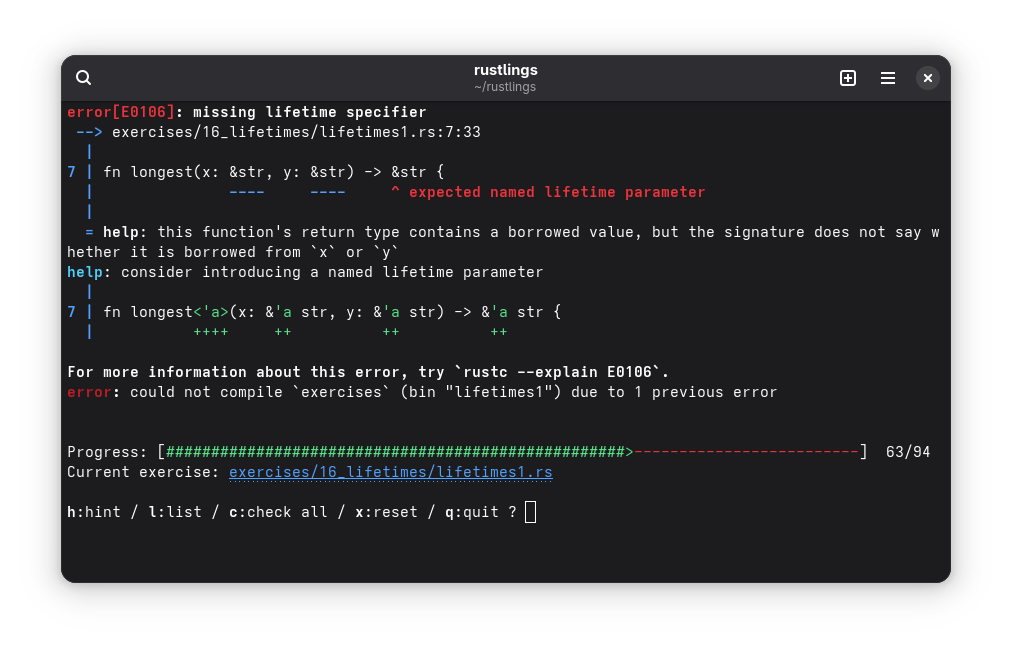
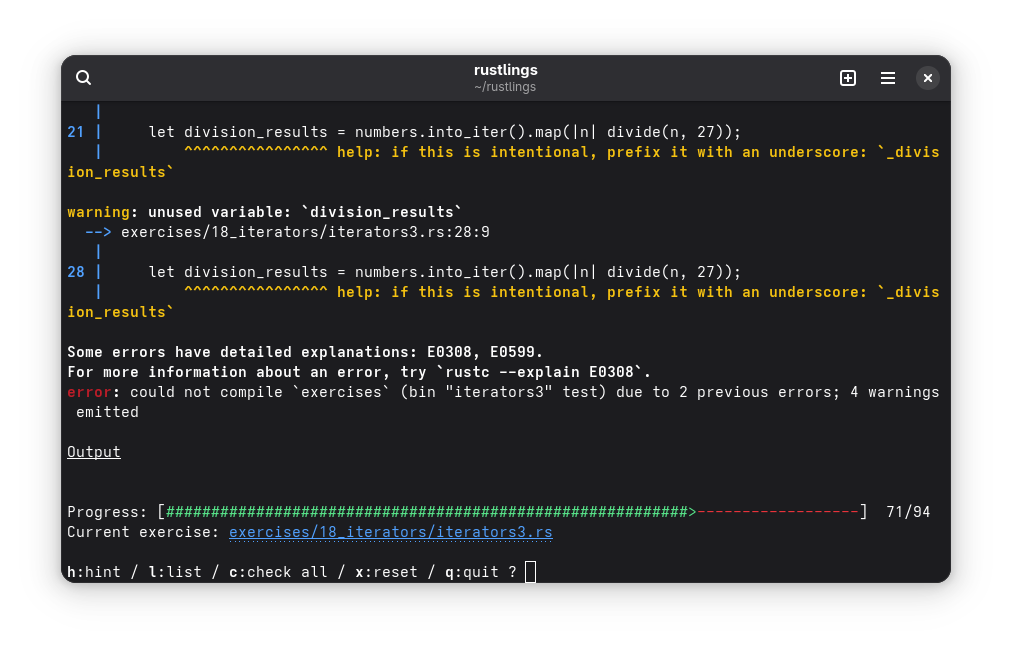
a few more exercises

diff --git a/solutions/18_iterators/iterators2.rs b/solutions/18_iterators/iterators2.rs
@@ -1,4 +1,56 @@
+// In this exercise, you'll learn some of the unique advantages that iterators
+// can offer.
+
+// "hello" -> "Hello"
+fn capitalize_first(input: &str) -> String {
+    let mut chars = input.chars();
+    match chars.next() {
+        None => String::new(),
+        Some(first) => first.to_uppercase().to_string() + chars.as_str(),
+    }
+}
+
+// Apply the `capitalize_first` function to a slice of string slices.
+// Return a vector of strings.
+// ["hello", "world"] -> ["Hello", "World"]
+fn capitalize_words_vector(words: &[&str]) -> Vec<String> {
+    words.iter().map(|word| capitalize_first(word)).collect()
+}
+
+// Apply the `capitalize_first` function again to a slice of string
+// slices. Return a single string.
+// ["hello", " ", "world"] -> "Hello World"
+fn capitalize_words_string(words: &[&str]) -> String {
+    words.iter().map(|word| capitalize_first(word)).collect()
+}
+
 fn main() {
-    // DON'T EDIT THIS SOLUTION FILE!
-    // It will be automatically filled after you finish the exercise.
+    // You can optionally experiment here.
+}
+
+#[cfg(test)]
+mod tests {
+    use super::*;
+
+    #[test]
+    fn test_success() {
+        assert_eq!(capitalize_first("hello"), "Hello");
+    }
+
+    #[test]
+    fn test_empty() {
+        assert_eq!(capitalize_first(""), "");
+    }
+
+    #[test]
+    fn test_iterate_string_vec() {
+        let words = vec!["hello", "world"];
+        assert_eq!(capitalize_words_vector(&words), ["Hello", "World"]);
+    }
+
+    #[test]
+    fn test_iterate_into_string() {
+        let words = vec!["hello", " ", "world"];
+        assert_eq!(capitalize_words_string(&words), "Hello World");
+    }
 }

diff --git a/exercises/18_iterators/iterators2.rs b/exercises/18_iterators/iterators2.rs
@@ -4,17 +4,24 @@
 // TODO: Complete the `capitalize_first` function.
 // "hello" -> "Hello"
 fn capitalize_first(input: &str) -> String {
-    let mut chars = input.chars();
-    match chars.next() {
-        None => String::new(),
-        Some(first) => todo!(),
+    let chars = input.chars();
+    let mut is_first = true;
+    let mut s: String = String::new();
+    for ch in chars {
+    	if is_first {
+        	s.push(ch.to_uppercase().next().unwrap());
+        	is_first=false;
+        } else {
+    	    	s.push(ch)
+    	}
     }
+    s
 }
 
 // TODO: Apply the `capitalize_first` function to a slice of string slices.
 // Return a vector of strings.
 // ["hello", "world"] -> ["Hello", "World"]
-fn capitalize_words_vector(words: &[&str]) -> Vec<String> {
+/*fn capitalize_words_vector(words: &[&str]) -> Vec<String> {
     // ???
 }
 
@@ -23,7 +30,7 @@ fn capitalize_words_vector(words: &[&str]) -> Vec<String> {
 // ["hello", " ", "world"] -> "Hello World"
 fn capitalize_words_string(words: &[&str]) -> String {
     // ???
-}
+}*/
 
 fn main() {
     // You can optionally experiment here.
@@ -43,7 +50,7 @@ mod tests {
         assert_eq!(capitalize_first(""), "");
     }
 
-    #[test]
+    /*#[test]
     fn test_iterate_string_vec() {
         let words = vec!["hello", "world"];
         assert_eq!(capitalize_words_vector(&words), ["Hello", "World"]);
@@ -53,5 +60,5 @@ mod tests {
     fn test_iterate_into_string() {
         let words = vec!["hello", " ", "world"];
         assert_eq!(capitalize_words_string(&words), "Hello World");
-    }
+    }*/
 }

diff --git a/exercises/18_iterators/iterators1.rs b/exercises/18_iterators/iterators1.rs
@@ -13,13 +13,17 @@ mod tests {
         let my_fav_fruits = ["banana", "custard apple", "avocado", "peach", "raspberry"];
 
         // TODO: Create an iterator over the array.
-        let mut fav_fruits_iterator = todo!();
+        let mut fav_fruits: Vec<String> = Vec::new();
+        for i in my_fav_fruits {
+        	fav_fruits.push(i.to_string())
+        }
+        let mut fav_fruits_iterator = fav_fruits.into_iter();
 
-        assert_eq!(fav_fruits_iterator.next(), Some(&"banana"));
-        assert_eq!(fav_fruits_iterator.next(), todo!()); // TODO: Replace `todo!()`
-        assert_eq!(fav_fruits_iterator.next(), Some(&"avocado"));
-        assert_eq!(fav_fruits_iterator.next(), todo!()); // TODO: Replace `todo!()`
-        assert_eq!(fav_fruits_iterator.next(), Some(&"raspberry"));
-        assert_eq!(fav_fruits_iterator.next(), todo!()); // TODO: Replace `todo!()`
+        assert_eq!(fav_fruits_iterator.next(), Some("banana".to_string()));
+        assert_eq!(fav_fruits_iterator.next(), Some("custard apple".to_string())); // TODO: Replace `todo!()`
+        assert_eq!(fav_fruits_iterator.next(), Some("avocado".to_string()));
+        assert_eq!(fav_fruits_iterator.next(), Some("peach".to_string())); // TODO: Replace `todo!()`
+        assert_eq!(fav_fruits_iterator.next(), Some("raspberry".to_string()));
+        assert_eq!(fav_fruits_iterator.next(), None); // TODO: Replace `todo!()`
     }
 }

diff --git a/solutions/17_tests/tests3.rs b/solutions/17_tests/tests3.rs
@@ -1,4 +1,45 @@
+struct Rectangle {
+    width: i32,
+    height: i32,
+}
+
+impl Rectangle {
+    // Don't change this function.
+    fn new(width: i32, height: i32) -> Self {
+        if width <= 0 || height <= 0 {
+            // Returning a `Result` would be better here. But we want to learn
+            // how to test functions that can panic.
+            panic!("Rectangle width and height must be positive");
+        }
+
+        Rectangle { width, height }
+    }
+}
+
 fn main() {
-    // DON'T EDIT THIS SOLUTION FILE!
-    // It will be automatically filled after you finish the exercise.
+    // You can optionally experiment here.
+}
+
+#[cfg(test)]
+mod tests {
+    use super::*;
+
+    #[test]
+    fn correct_width_and_height() {
+        let rect = Rectangle::new(10, 20);
+        assert_eq!(rect.width, 10); // Check width
+        assert_eq!(rect.height, 20); // Check height
+    }
+
+    #[test]
+    #[should_panic] // Added this attribute to check that the test panics.
+    fn negative_width() {
+        let _rect = Rectangle::new(-10, 10);
+    }
+
+    #[test]
+    #[should_panic] // Added this attribute to check that the test panics.
+    fn negative_height() {
+        let _rect = Rectangle::new(10, -10);
+    }
 }

diff --git a/solutions/16_lifetimes/lifetimes2.rs b/solutions/16_lifetimes/lifetimes2.rs
@@ -1,4 +1,29 @@
+fn longest<'a>(x: &'a str, y: &'a str) -> &'a str {
+    if x.len() > y.len() { x } else { y }
+}
+
 fn main() {
-    // DON'T EDIT THIS SOLUTION FILE!
-    // It will be automatically filled after you finish the exercise.
+    let string1 = String::from("long string is long");
+    // Solution1: You can move `strings2` out of the inner block so that it is
+    // not dropped before the print statement.
+    let string2 = String::from("xyz");
+    let result;
+    {
+        result = longest(&string1, &string2);
+    }
+    println!("The longest string is '{result}'");
+    // `string2` dropped at the end of the function.
+
+    // =========================================================================
+
+    let string1 = String::from("long string is long");
+    let result;
+    {
+        let string2 = String::from("xyz");
+        result = longest(&string1, &string2);
+        // Solution2: You can move the print statement into the inner block so
+        // that it is executed before `string2` is dropped.
+        println!("The longest string is '{result}'");
+        // `string2` dropped here (end of the inner scope).
+    }
 }

diff --git a/solutions/18_iterators/iterators1.rs b/solutions/18_iterators/iterators1.rs
@@ -1,4 +1,26 @@
+// When performing operations on elements within a collection, iterators are
+// essential. This module helps you get familiar with the structure of using an
+// iterator and how to go through elements within an iterable collection.
+
 fn main() {
-    // DON'T EDIT THIS SOLUTION FILE!
-    // It will be automatically filled after you finish the exercise.
+    // You can optionally experiment here.
+}
+
+#[cfg(test)]
+mod tests {
+    #[test]
+    fn iterators() {
+        let my_fav_fruits = ["banana", "custard apple", "avocado", "peach", "raspberry"];
+
+        // Create an iterator over the array.
+        let mut fav_fruits_iterator = my_fav_fruits.iter();
+
+        assert_eq!(fav_fruits_iterator.next(), Some(&"banana"));
+        assert_eq!(fav_fruits_iterator.next(), Some(&"custard apple"));
+        assert_eq!(fav_fruits_iterator.next(), Some(&"avocado"));
+        assert_eq!(fav_fruits_iterator.next(), Some(&"peach"));
+        assert_eq!(fav_fruits_iterator.next(), Some(&"raspberry"));
+        assert_eq!(fav_fruits_iterator.next(), None);
+        //                                     ^^^^ reached the end
+    }
 }

diff --git a/exercises/17_tests/tests3.rs b/exercises/17_tests/tests3.rs
@@ -29,13 +29,14 @@ mod tests {
         // TODO: This test should check if the rectangle has the size that we
         // pass to its constructor.
         let rect = Rectangle::new(10, 20);
-        assert_eq!(todo!(), 10); // Check width
-        assert_eq!(todo!(), 20); // Check height
+        assert_eq!(rect.width, 10); // Check width
+        assert_eq!(rect.height, 20); // Check height
     }
 
     // TODO: This test should check if the program panics when we try to create
     // a rectangle with negative width.
     #[test]
+    #[should_panic]
     fn negative_width() {
         let _rect = Rectangle::new(-10, 10);
     }
@@ -43,6 +44,7 @@ mod tests {
     // TODO: This test should check if the program panics when we try to create
     // a rectangle with negative height.
     #[test]
+    #[should_panic]
     fn negative_height() {
         let _rect = Rectangle::new(10, -10);
     }

diff --git a/solutions/16_lifetimes/lifetimes1.rs b/solutions/16_lifetimes/lifetimes1.rs
@@ -1,4 +1,24 @@
+// The Rust compiler needs to know how to check whether supplied references are
+// valid, so that it can let the programmer know if a reference is at risk of
+// going out of scope before it is used. Remember, references are borrows and do
+// not own their own data. What if their owner goes out of scope?
+
+fn longest<'a>(x: &'a str, y: &'a str) -> &'a str {
+    //    ^^^^     ^^          ^^          ^^
+    if x.len() > y.len() { x } else { y }
+}
+
 fn main() {
-    // DON'T EDIT THIS SOLUTION FILE!
-    // It will be automatically filled after you finish the exercise.
+    // You can optionally experiment here.
+}
+
+#[cfg(test)]
+mod tests {
+    use super::*;
+
+    #[test]
+    fn test_longest() {
+        assert_eq!(longest("abcd", "123"), "abcd");
+        assert_eq!(longest("abc", "1234"), "1234");
+    }
 }

diff --git a/solutions/17_tests/tests1.rs b/solutions/17_tests/tests1.rs
@@ -1,4 +1,24 @@
+// Tests are important to ensure that your code does what you think it should
+// do.
+
+fn is_even(n: i64) -> bool {
+    n % 2 == 0
+}
+
 fn main() {
-    // DON'T EDIT THIS SOLUTION FILE!
-    // It will be automatically filled after you finish the exercise.
+    // You can optionally experiment here.
+}
+
+#[cfg(test)]
+mod tests {
+    // When writing unit tests, it is common to import everything from the outer
+    // module (`super`) using a wildcard.
+    use super::*;
+
+    #[test]
+    fn you_can_assert() {
+        assert!(is_even(0));
+        assert!(!is_even(-1));
+        //      ^ You can assert `false` using the negation operator `!`.
+    }
 }

diff --git a/solutions/17_tests/tests2.rs b/solutions/17_tests/tests2.rs
@@ -1,4 +1,22 @@
+// Calculates the power of 2 using a bit shift.
+// `1 << n` is equivalent to "2 to the power of n".
+fn power_of_2(n: u8) -> u64 {
+    1 << n
+}
+
 fn main() {
-    // DON'T EDIT THIS SOLUTION FILE!
-    // It will be automatically filled after you finish the exercise.
+    // You can optionally experiment here.
+}
+
+#[cfg(test)]
+mod tests {
+    use super::*;
+
+    #[test]
+    fn you_can_assert_eq() {
+        assert_eq!(power_of_2(0), 1);
+        assert_eq!(power_of_2(1), 2);
+        assert_eq!(power_of_2(2), 4);
+        assert_eq!(power_of_2(3), 8);
+    }
 }

diff --git a/solutions/16_lifetimes/lifetimes3.rs b/solutions/16_lifetimes/lifetimes3.rs
@@ -1,4 +1,18 @@
+// Lifetimes are also needed when structs hold references.
+
+struct Book<'a> {
+    //     ^^^^ added a lifetime annotation
+    author: &'a str,
+    //       ^^
+    title: &'a str,
+    //      ^^
+}
+
 fn main() {
-    // DON'T EDIT THIS SOLUTION FILE!
-    // It will be automatically filled after you finish the exercise.
+    let book = Book {
+        author: "George Orwell",
+        title: "1984",
+    };
+
+    println!("{} by {}", book.title, book.author);
 }

diff --git a/exercises/17_tests/tests2.rs b/exercises/17_tests/tests2.rs
@@ -15,9 +15,9 @@ mod tests {
     #[test]
     fn you_can_assert_eq() {
         // TODO: Test the function `power_of_2` with some values.
-        assert_eq!();
-        assert_eq!();
-        assert_eq!();
-        assert_eq!();
+        assert_eq!(power_of_2(2), 4);
+        assert_eq!(power_of_2(4), 16);
+        assert_eq!(power_of_2(8), 256);
+        assert_eq!(power_of_2(10), 1024);
     }
 }
